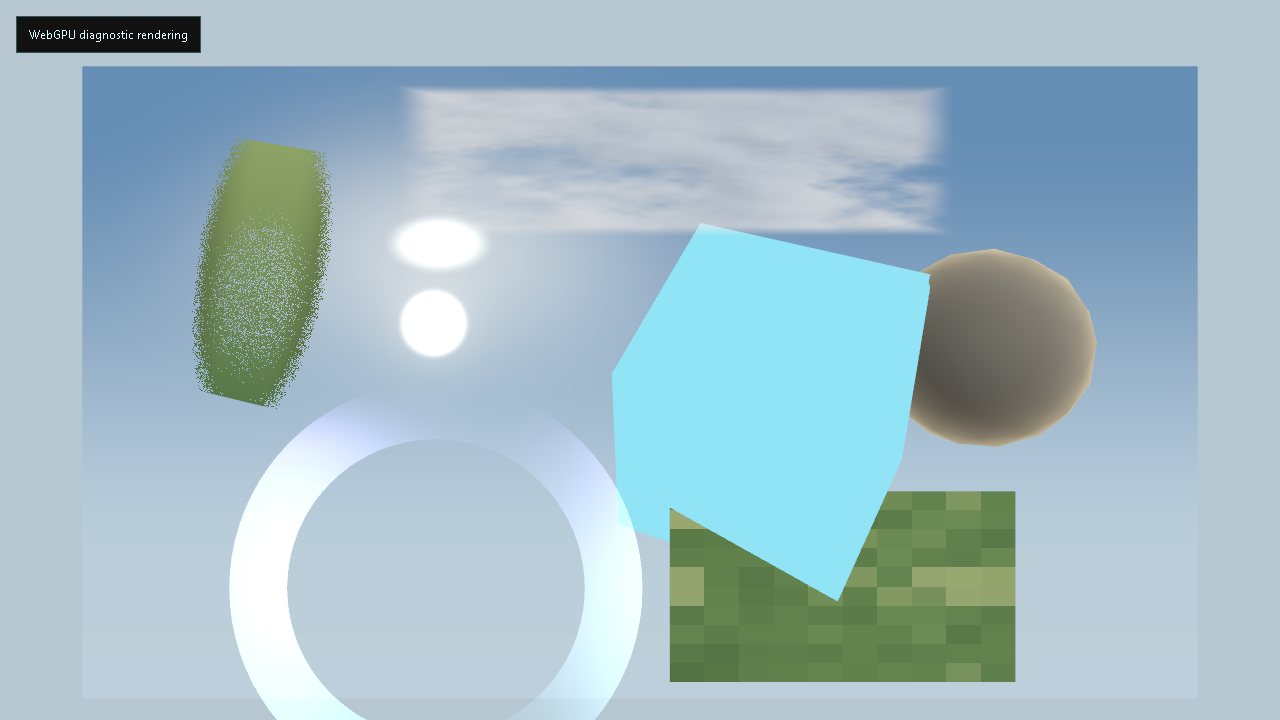
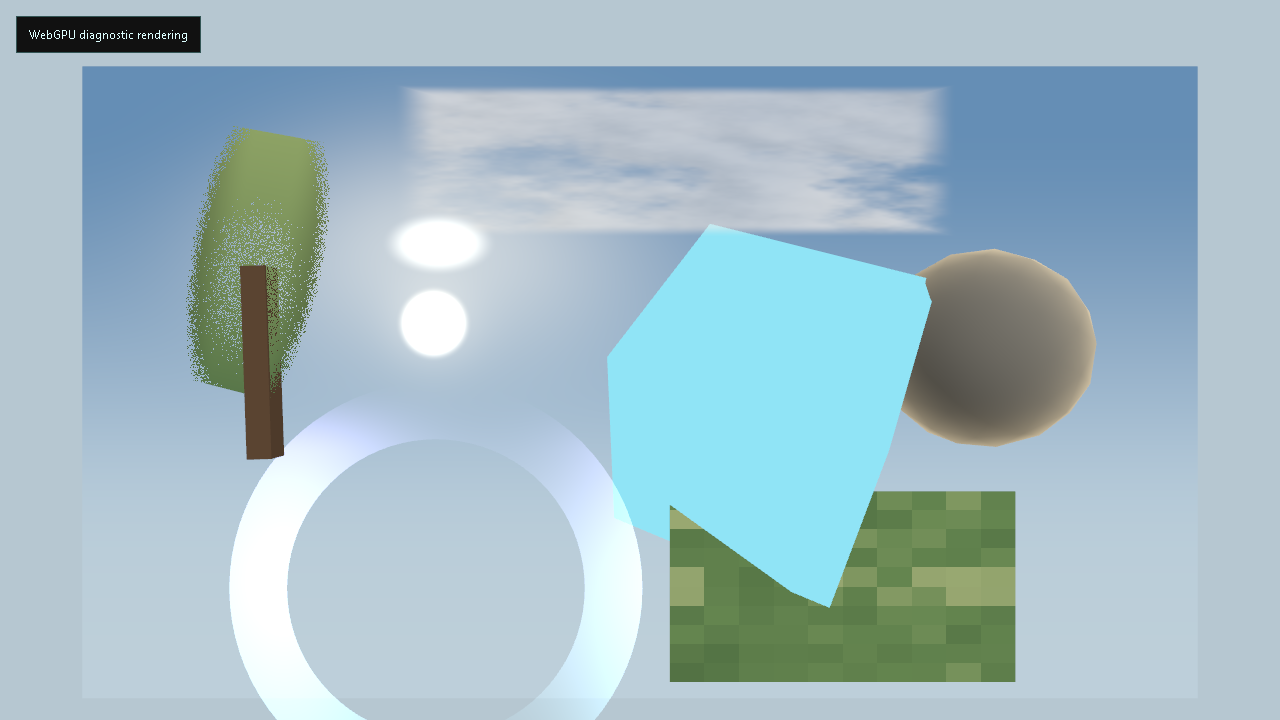
feat(konveyor): prove diagnostic material replacement

diff --git a/js/diagnostics/webgpuDiagnostic.js b/js/diagnostics/webgpuDiagnostic.js
@@ -1,3 +1,8 @@
+import {
+    replaceRockMaterialsByTraversal,
+    replaceTreeMaterialsByName,
+} from './webgpuMaterialReplacement.js';
+
 async function loadWebGpuThree() {
     const webGpuModulePath = './vendor/three/three.webgpu.min.js';
     return import(/* @vite-ignore */ new URL(webGpuModulePath, import.meta.url).href);
@@ -253,6 +258,15 @@ function createRockRimNodeMaterial({ MeshStandardNodeMaterial, TSL }, rockRim) {
     return material;
 }
 
+function createTreeBranchNodeMaterial({ MeshStandardNodeMaterial, TSL }) {
+    const { float, vec3 } = TSL;
+    const material = new MeshStandardNodeMaterial();
+    material.colorNode = vec3(0.20, 0.11, 0.055);
+    material.roughnessNode = float(0.94);
+    material.metalnessNode = float(0.0);
+    return material;
+}
+
 export async function bootWebGpuDiagnostic() {
     const skyFog = createSkyFogDiagnosticState();
     const rockRim = createRockRimDiagnosticState(skyFog);
@@ -262,10 +276,11 @@ export async function bootWebGpuDiagnostic() {
         requested: true,
         ok: false,
         renderer: 'webgpu',
-        islands: ['sun-billboard', 'portal-ring', 'meadow-quad', 'cloud-plane', 'sky-fog', 'rock-rim', 'tree-leaf'],
+        islands: ['sun-billboard', 'portal-ring', 'meadow-quad', 'cloud-plane', 'sky-fog', 'rock-rim', 'tree-leaf', 'glb-material-replacement'],
         skyFog,
         rockRim,
         treeLeaf,
+        materialReplacement: null,
         frames: 0,
     };
 
@@ -316,6 +331,7 @@ export async function bootWebGpuDiagnostic() {
         DirectionalLight,
         AdditiveBlending,
         DoubleSide,
+        Group,
         TSL,
     } = await loadWebGpuThree();
 
@@ -345,12 +361,13 @@ export async function bootWebGpuDiagnostic() {
     cube.position.x = 0.55;
     scene.add(cube);
 
-    const rock = new Mesh(
-        new IcosahedronGeometry(0.42, 2),
-        createRockRimNodeMaterial({ MeshStandardNodeMaterial, TSL }, rockRim)
-    );
+    const rock = new Mesh(new IcosahedronGeometry(0.42, 2), new MeshStandardNodeMaterial());
     rock.position.set(1.45, 0.25, 0.05);
     rock.rotation.set(0.25, 0.45, 0.1);
+    const rockReplacement = replaceRockMaterialsByTraversal(
+        rock,
+        () => createRockRimNodeMaterial({ MeshStandardNodeMaterial, TSL }, rockRim)
+    );
     scene.add(rock);
 
     const skyFogBackdrop = new Mesh(
@@ -368,13 +385,29 @@ export async function bootWebGpuDiagnostic() {
     sun.position.set(-0.85, 0.35, 0.15);
     scene.add(sun);
 
-    const treeLeafMesh = new Mesh(
-        new PlaneGeometry(0.72, 1.05, 5, 8),
-        createTreeLeafNodeMaterial({ MeshStandardNodeMaterial, DoubleSide, TSL }, treeLeaf)
-    );
-    treeLeafMesh.position.set(-1.55, 0.55, 0.18);
+    const treeGroup = new Group();
+    const treeBranchSource = new MeshStandardNodeMaterial();
+    treeBranchSource.name = 'branches';
+    const treeBranchMesh = new Mesh(new BoxGeometry(0.1, 0.78, 0.1), treeBranchSource);
+    treeBranchMesh.position.set(0, -0.14, -0.01);
+    treeGroup.add(treeBranchMesh);
+
+    const treeLeafSource = new MeshStandardNodeMaterial();
+    treeLeafSource.name = 'leaves';
+    const treeLeafMesh = new Mesh(new PlaneGeometry(0.72, 1.05, 5, 8), treeLeafSource);
+    treeLeafMesh.position.set(0, 0.26, 0.02);
     treeLeafMesh.rotation.set(0.0, -0.18, -0.25);
-    scene.add(treeLeafMesh);
+    treeGroup.add(treeLeafMesh);
+    const treeReplacement = replaceTreeMaterialsByName(treeGroup, {
+        branches: () => createTreeBranchNodeMaterial({ MeshStandardNodeMaterial, TSL }),
+        leaves: () => createTreeLeafNodeMaterial({ MeshStandardNodeMaterial, DoubleSide, TSL }, treeLeaf),
+    });
+    treeGroup.position.set(-1.55, 0.33, 0.18);
+    scene.add(treeGroup);
+    state.materialReplacement = {
+        rocks: rockReplacement,
+        trees: treeReplacement,
+    };
 
     const portal = new Mesh(
         new RingGeometry(0.62, 0.86, 80, 1),
@@ -413,7 +446,7 @@ export async function bootWebGpuDiagnostic() {
         cube.rotation.x = t * 0.0006;
         cube.rotation.y = t * 0.0009;
         rock.rotation.y = 0.45 + t * 0.00035;
-        treeLeafMesh.rotation.z = -0.25 + Math.sin(t * 0.0012) * 0.05;
+        treeGroup.rotation.z = Math.sin(t * 0.0012) * 0.035;
         await renderer.renderAsync(scene, camera);
         state.frames += 1;
         if (state.frames === 1) {
@@ -441,8 +474,12 @@ export async function bootWebGpuDiagnostic() {
         renderer.dispose();
         sun.geometry.dispose();
         sun.material.dispose();
-        treeLeafMesh.geometry.dispose();
-        treeLeafMesh.material.dispose();
+        treeGroup.traverse((child) => {
+            if (!child.isMesh) return;
+            child.geometry?.dispose();
+            const materials = Array.isArray(child.material) ? child.material : [child.material];
+            materials.forEach((m) => m?.dispose?.());
+        });
         canvas.remove();
         status.remove();
     };

diff --git a/js/diagnostics/webgpuMaterialReplacement.js b/js/diagnostics/webgpuMaterialReplacement.js
@@ -1,0 +1,83 @@
+function visitObject(root, visit) {
+    if (typeof root?.traverse === 'function') {
+        root.traverse(visit);
+        return;
+    }
+
+    const stack = root ? [root] : [];
+    while (stack.length) {
+        const current = stack.pop();
+        visit(current);
+        if (Array.isArray(current.children)) {
+            for (let i = current.children.length - 1; i >= 0; i -= 1) {
+                stack.push(current.children[i]);
+            }
+        }
+    }
+}
+
+function toMaterialList(material) {
+    return Array.isArray(material) ? material : [material];
+}
+
+export function replaceRockMaterialsByTraversal(root, createMaterial) {
+    let visitedMeshes = 0;
+    let replacedMaterials = 0;
+    const previousMaterialNames = new Set();
+
+    visitObject(root, (object) => {
+        if (!object?.isMesh || !object.material) return;
+        visitedMeshes += 1;
+        if (Array.isArray(object.material)) {
+            object.material = object.material.map((material, materialIndex) => {
+                previousMaterialNames.add(material?.name || '(runtime-default)');
+                replacedMaterials += 1;
+                return createMaterial({ mesh: object, previous: material, materialIndex });
+            });
+            return;
+        }
+
+        const previous = object.material;
+        previousMaterialNames.add(previous?.name || '(runtime-default)');
+        object.material = createMaterial({ mesh: object, previous, materialIndex: 0 });
+        replacedMaterials += 1;
+    });
+
+    return {
+        strategy: 'asset-class-traversal',
+        visitedMeshes,
+        replacedMaterials,
+        previousMaterialNames: [...previousMaterialNames].sort(),
+    };
+}
+
+export function replaceTreeMaterialsByName(root, factories) {
+    const targetNames = Object.keys(factories).sort();
+    const seenNames = new Set();
+    let visitedMeshes = 0;
+    let replacedMaterials = 0;
+
+    visitObject(root, (object) => {
+        if (!object?.isMesh || !object.material) return;
+        visitedMeshes += 1;
+        const materials = toMaterialList(object.material);
+        const replacement = materials.map((material, materialIndex) => {
+            const name = material?.name || '';
+            if (name) seenNames.add(name);
+            const factory = factories[name];
+            if (!factory) return material;
+            replacedMaterials += 1;
+            return factory({ mesh: object, previous: material, materialIndex });
+        });
+        object.material = Array.isArray(object.material) ? replacement : replacement[0];
+    });
+
+    return {
+        strategy: 'material-name',
+        targetNames,
+        seenNames: [...seenNames].sort(),
+        missingTargets: targetNames.filter((name) => !seenNames.has(name)),
+        visitedMeshes,
+        replacedMaterials,
+    };
+}

diff --git a/tests/webgpu-diagnostic.spec.js b/tests/webgpu-diagnostic.spec.js
@@ -5,6 +5,10 @@ import {
   createSkyFogDiagnosticState,
   createTreeLeafDiagnosticState,
 } from '../js/diagnostics/webgpuDiagnostic.js';
+import {
+  replaceRockMaterialsByTraversal,
+  replaceTreeMaterialsByName,
+} from '../js/diagnostics/webgpuMaterialReplacement.js';
 
 describe('webgpu diagnostic sky fog state', () => {
   it('keeps fog color derived from the CPU horizon sample', () => {
@@ -34,5 +38,54 @@ describe('webgpu diagnostic sky fog state', () => {
     expect(treeLeaf.alphaHash).toBe(true);
     expect(treeLeaf.occluderStrength).toBeGreaterThan(0);
     expect(treeLeaf.occluderPeak).toBeGreaterThan(0);
+  });
+});
+
+describe('webgpu diagnostic material replacement strategy', () => {
+  it('replaces tree materials by stable GLB material names', () => {
+    const meshes = [
+      { isMesh: true, material: { name: 'branches' } },
+      { isMesh: true, material: { name: 'leaves' } },
+      { isMesh: true, material: { name: 'bystander' } },
+    ];
+    const root = {
+      traverse(visitor) {
+        meshes.forEach(visitor);
+      },
+    };
+
+    const result = replaceTreeMaterialsByName(root, {
+      branches: () => ({ name: 'node-branches' }),
+      leaves: () => ({ name: 'node-leaves' }),
+    });
+
+    expect(meshes[0].material.name).toBe('node-branches');
+    expect(meshes[1].material.name).toBe('node-leaves');
+    expect(meshes[2].material.name).toBe('bystander');
+    expect(result).toMatchObject({
+      strategy: 'material-name',
+      targetNames: ['branches', 'leaves'],
+      seenNames: ['branches', 'bystander', 'leaves'],
+      missingTargets: [],
+      visitedMeshes: 3,
+      replacedMaterials: 2,
+    });
+  });
+
+  it('replaces unnamed rock materials by mesh traversal', () => {
+    const rock = {
+      isMesh: true,
+      material: { name: '' },
+    };
+
+    const result = replaceRockMaterialsByTraversal(rock, () => ({ name: 'node-rock-rim' }));
+
+    expect(rock.material.name).toBe('node-rock-rim');
+    expect(result).toEqual({
+      strategy: 'asset-class-traversal',
+      visitedMeshes: 1,
+      replacedMaterials: 1,
+      previousMaterialNames: ['(runtime-default)'],
+    });
   });
 });

diff --git a/docs/konveyor-autonomous-run.md b/docs/konveyor-autonomous-run.md
@@ -75,7 +75,9 @@ WebGPU now has a diagnostic island, not a production renderer:
   now ported inside the diagnostic island. The rock-rim fresnel formula is
   also ported as the first `onBeforeCompile` replacement island, and a
   diagnostic tree-leaf island now covers wind displacement, alpha-hash posture,
-  and occluder fade inputs without touching production GLBs.
+  and occluder fade inputs without touching production GLBs. A diagnostic
+  `glb-material-replacement` island now proves tree material-name replacement
+  and rock traversal replacement in isolation.
 - [`../cycle36-validation/runtime/material-ownership.json`](../cycle36-validation/runtime/material-ownership.json)
   records GLB material ownership for production-adjacent tree and rock work.
   Tree LOD0/LOD1 assets have stable `branches` and `leaves` material names;
@@ -99,11 +101,20 @@ Recommended order:
    the rock-rim TSL prototype covers the smallest `onBeforeCompile`
    replacement formula, and the tree-leaf TSL prototype covers wind,
    alpha-hash posture, and occluder fade inputs. GLB material ownership proof
-   now exists; prefer a flag-gated replacement proof next, using tree material
-   names for tree work and rock asset-class or mesh traversal for rock work.
+   and a diagnostic replacement proof now exist; prefer a loaded-production-GLB
+   clone proof next, using tree material names for tree work and rock asset
+   class or mesh traversal for rock work.
 2. **Keep measurement attached to every change.** Run the relevant perf,
    latency, screenshot, test, lint, and build gates before claiming progress.
-3. **Advance through the Konveyor phase outline.** Keep moving from cosmetic
+3. **Treat EZ-Tree refresh as a measured tree phase, not a side edit.** The
+   repo already resolves `@dgreenheck/ez-tree` 1.1.0, which is the current npm
+   latest as of 2026-05-14. Upstream `main` has unreleased tree-generation
+   changes around softer leaf normals, corrected growth force, and stratified
+   child branch/leaf placement
+   ([changelog](https://github.com/dgreenheck/ez-tree/blob/main/CHANGELOG.md)).
+   Evaluate those before Phase 2/4 tree rebakes, but only accept regenerated
+   GLBs with named visual and perf artifacts.
+4. **Advance through the Konveyor phase outline.** Keep moving from cosmetic
    shader compatibility to trees, grass, sheep/high-count rendering, compute
    experiments, native packaging, and web fallback/release decisions as
    evidence allows.

diff --git a/docs/archive/research/konveyor-shader-surface-inventory-2026-05-14.md b/docs/archive/research/konveyor-shader-surface-inventory-2026-05-14.md
@@ -20,8 +20,11 @@ color packet. A diagnostic tree-leaf island now covers wind displacement,
 alpha-hash posture, and a local occluder fade proxy. GLB material ownership
 proof now shows that tree LOD0/LOD1 assets have stable `branches` and `leaves`
 materials, while rock assets currently expose runtime-default primitive
-materials and cannot be migrated by material name. Do not start production
-wiring with terrain, grass, water, sheep, or Kiln impostors.
+materials and cannot be migrated by material name. The diagnostic island now
+also includes a WebGPU material-replacement proof that exercises tree
+replacement by `branches`/`leaves` names and rock replacement by mesh traversal
+without loading production GLBs or touching the default WebGL path. Do not
+start production wiring with terrain, grass, water, sheep, or Kiln impostors.
 
 ## Active ShaderMaterial Surfaces
 
@@ -63,6 +66,10 @@ comments:
 - Rock GLB primitives resolve through a runtime-default material target, so the
   rock-rim migration must replace by rock asset class or mesh traversal rather
   than by authored material name.
+- The WebGPU diagnostic `glb-material-replacement` island proves those two
+  replacement strategies in isolation: tree replacement by material name and
+  rock replacement by traversal. It is still diagnostic-only; real production
+  GLB wiring remains a separate gated step.
 
 ## Dormant Or Supporting Surfaces
 
@@ -80,8 +87,10 @@ comments:
 1. Use the captured GLB ownership proof before production tree or rock wiring:
    tree replacements may target `leaves` and `branches` by material name across
    LOD0/LOD1; rock replacements must use rock asset class or mesh traversal.
-   The next code island should prove one replacement path behind the WebGPU
-   flag while keeping the current WebGL `onBeforeCompile` patches as default.
+   The diagnostic replacement island proves both strategies in isolation; the
+   next code island should apply one strategy to loaded production GLB clones
+   behind the WebGPU flag while keeping the current WebGL `onBeforeCompile`
+   patches as default.
 2. Keep sky/fog production wiring behind parity evidence for analytic colors,
    preset screenshots, and fog consumers.
 3. Defer terrain, water, blade grass, sheep, and Kiln impostors until the

diff --git a/docs/konveyor-sds.md b/docs/konveyor-sds.md
@@ -51,10 +51,11 @@ As of 2026-05-14, SDS is not a WebGPU project yet.
   normal WebGL bundle path as default. Current diagnostic islands cover the sun
   billboard, portal ring, meadow quad, cloud plane, and a sky/fog CPU sample
   packet, plus the rock-rim fresnel formula and a tree-leaf wind/alpha/occluder
-  proxy. GLB material ownership proof now shows that tree LOD0/LOD1 assets can
-  be addressed by stable `branches` and `leaves` material names, while rocks
-  require replacement by asset class or mesh traversal rather than material
-  name.
+  proxy. A diagnostic material-replacement island proves tree replacement by
+  `branches`/`leaves` material names and rock replacement by traversal. GLB
+  material ownership proof now shows that tree LOD0/LOD1 assets can be addressed
+  by stable material names, while rocks require replacement by asset class or
+  mesh traversal rather than material name.
 - The deterministic `shared/` boundary is unchanged. Konveyor is a rendering,
   packaging, and performance campaign unless a cycle explicitly authorizes a
   shared-sim change.
@@ -271,6 +272,15 @@ behavior through the current visual, latency, test, lint, and build gates.
 Check the current `@dgreenheck/ez-tree` release, re-bake only if there is a
 clear output or performance reason, and re-run GLB compression plus Kiln
 impostor bakes when silhouettes or materials change.
+
+As of 2026-05-14, npm latest for `@dgreenheck/ez-tree` is 1.1.0 and SDS already
+resolves that version. Upstream `main` has unreleased changes for softer leaf
+normals, corrected growth force, and stratified branch/leaf placement
+([changelog](https://github.com/dgreenheck/ez-tree/blob/main/CHANGELOG.md)).
+That is a serious tree-refresh candidate for the WebGPU/native target, but it
+must run through the asset-gallery pick flow, GLB compression, Kiln impostor
+rebake where needed, material-ownership proof, visual review, and perf/latency
+gates before replacing shipped trees.
 
 Exit: every accepted tree delta is artifact-backed, and tree goldens are updated
 only for named, intentional differences.

diff --git a/progress.md b/progress.md
@@ -27,3 +27,5 @@ Current prompt for the next autonomous run: /goal On branch exp/konveyor-webgpu-
 - 2026-05-14: Ported the rock-rim fresnel formula into a diagnostic `MeshStandardNodeMaterial` island driven by `skyFog.sunColor`. Evidence now reports `islands: ["sun-billboard", "portal-ring", "meadow-quad", "cloud-plane", "sky-fog", "rock-rim"]`; default production-preview evidence still reports `diagnostic: null`.
 - 2026-05-14: Ported a diagnostic tree-leaf `MeshStandardNodeMaterial` island covering wind displacement, alpha-hash posture, and a local occluder fade proxy without touching production GLBs. Evidence now reports `islands: ["sun-billboard", "portal-ring", "meadow-quad", "cloud-plane", "sky-fog", "rock-rim", "tree-leaf"]`; default production-preview evidence still reports `diagnostic: null`.
 - 2026-05-14: Added GLB material ownership proof at `cycle36-validation/runtime/material-ownership.json`. Tree LOD0/LOD1 assets have stable `branches` and `leaves` material targets; rock GLBs expose runtime-default primitive material ownership, so rock WebGPU replacement must use asset class or mesh traversal.
+- 2026-05-14: Verified `@dgreenheck/ez-tree` latest on npm is still 1.1.0 and SDS already resolves it. Upstream `main` has unreleased tree-generation improvements for softer leaf normals, corrected growth force, and stratified branch/leaf placement; evaluate this in the measured tree-refresh phase before rebaking production assets.
+- 2026-05-14: Added a diagnostic-only WebGPU material replacement proof. Evidence now reports `islands: ["sun-billboard", "portal-ring", "meadow-quad", "cloud-plane", "sky-fog", "rock-rim", "tree-leaf", "glb-material-replacement"]`, with tree replacement by `branches`/`leaves` names and rock replacement by traversal; default production-preview evidence still reports `diagnostic: null`.
